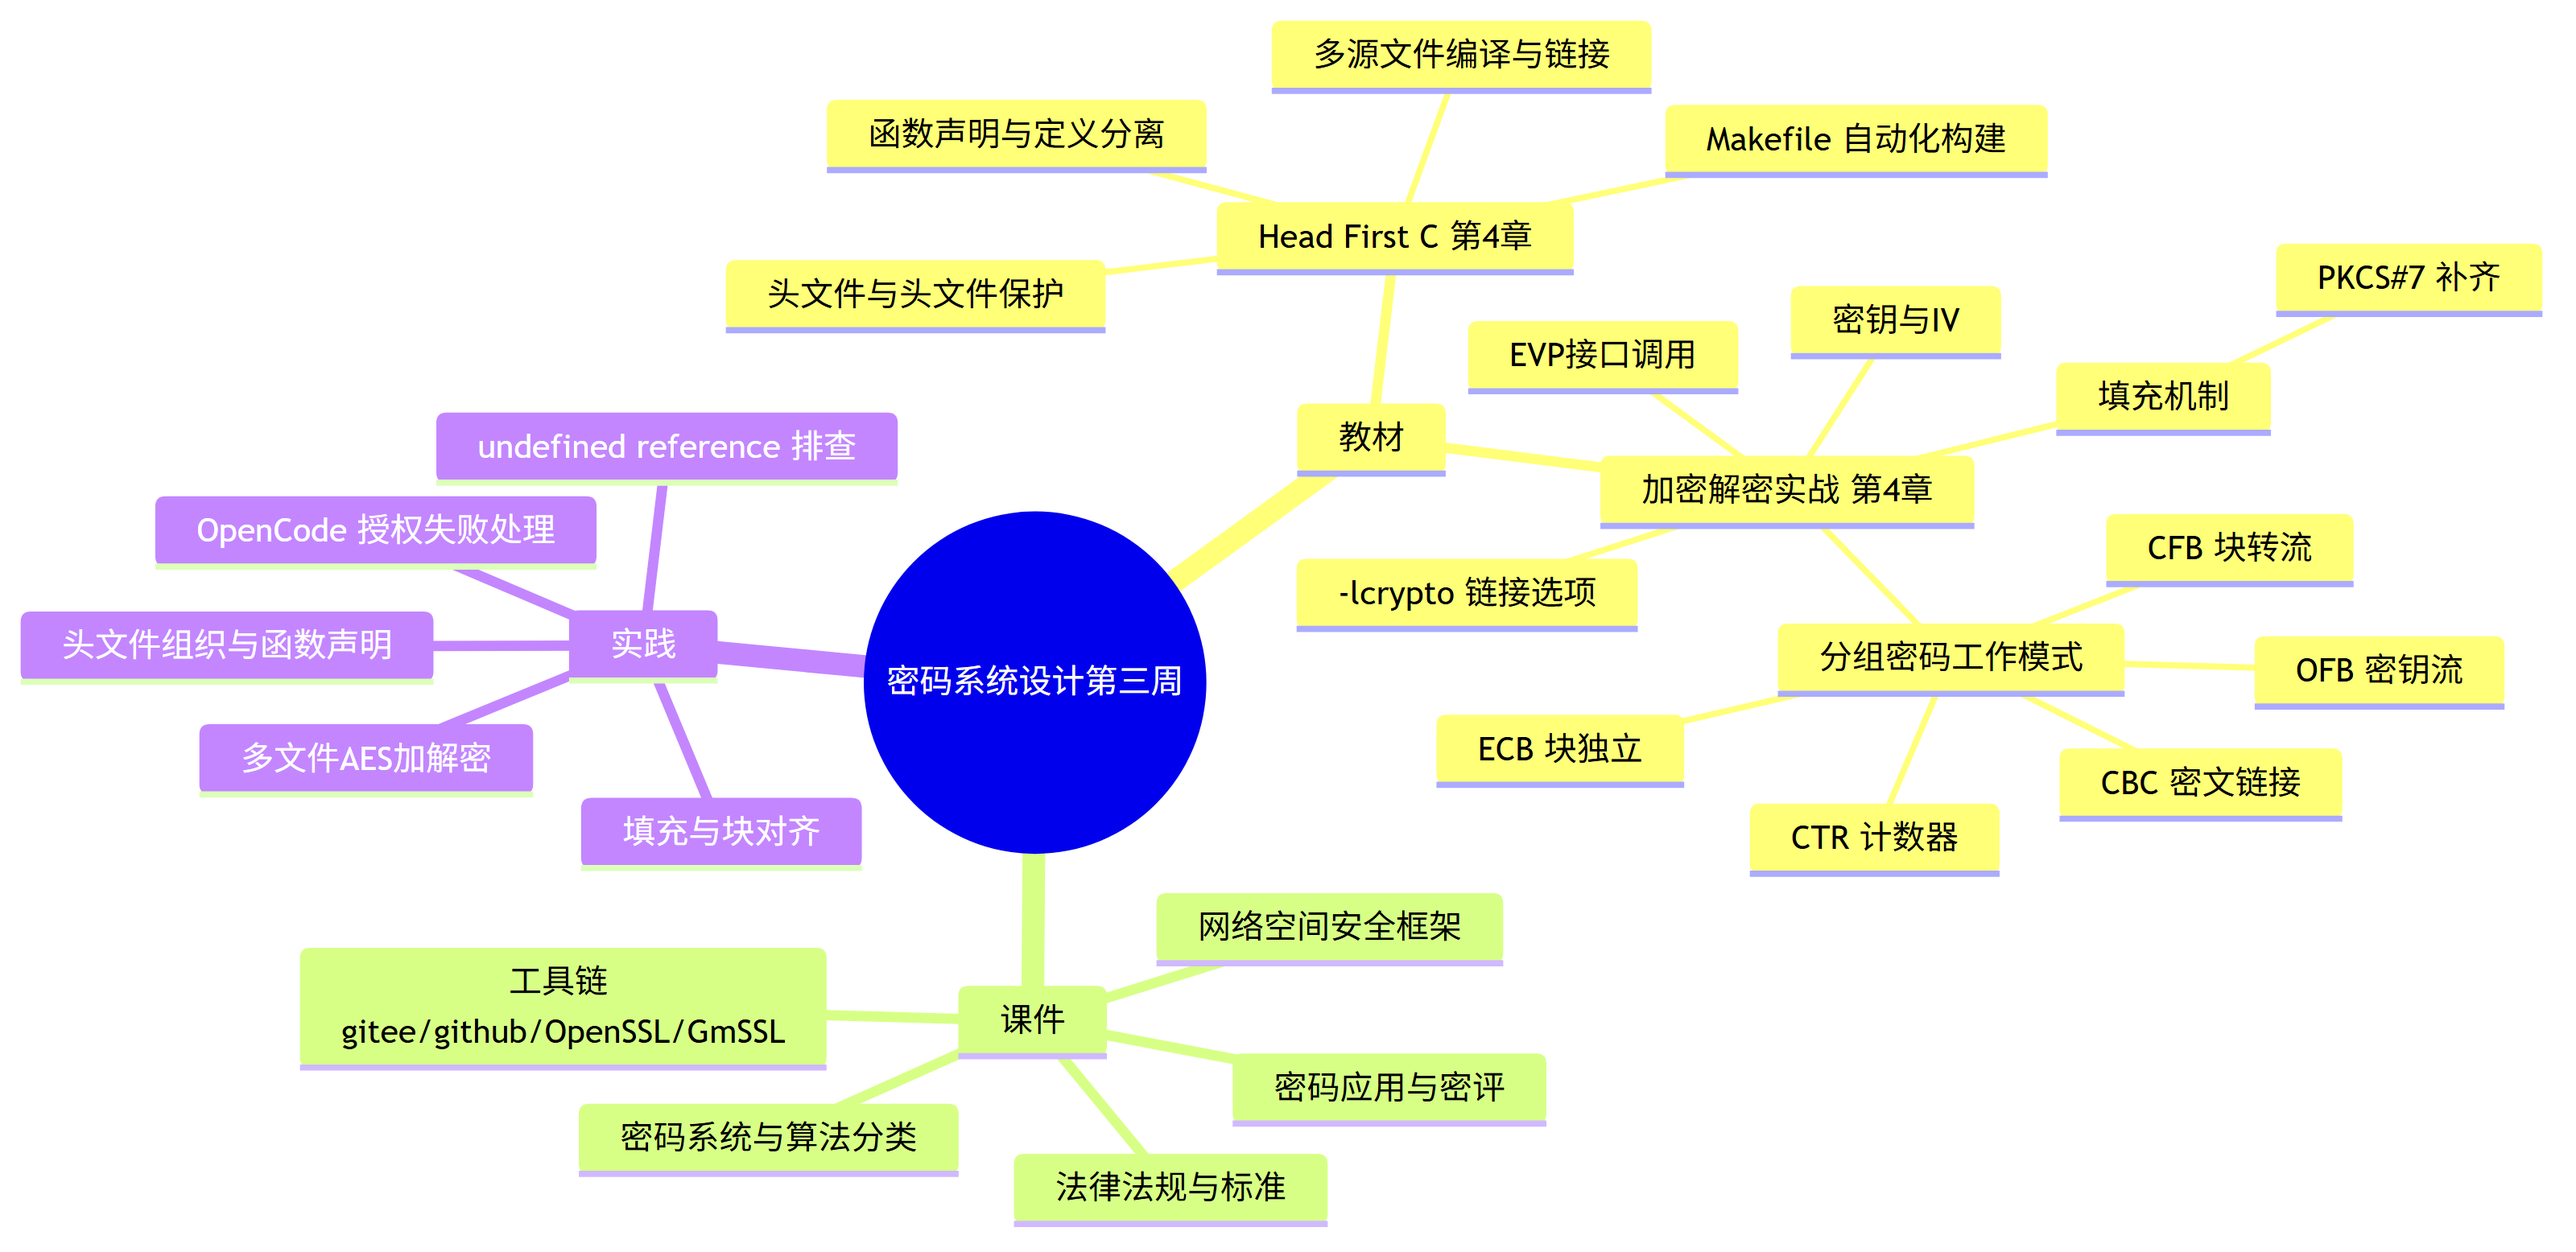
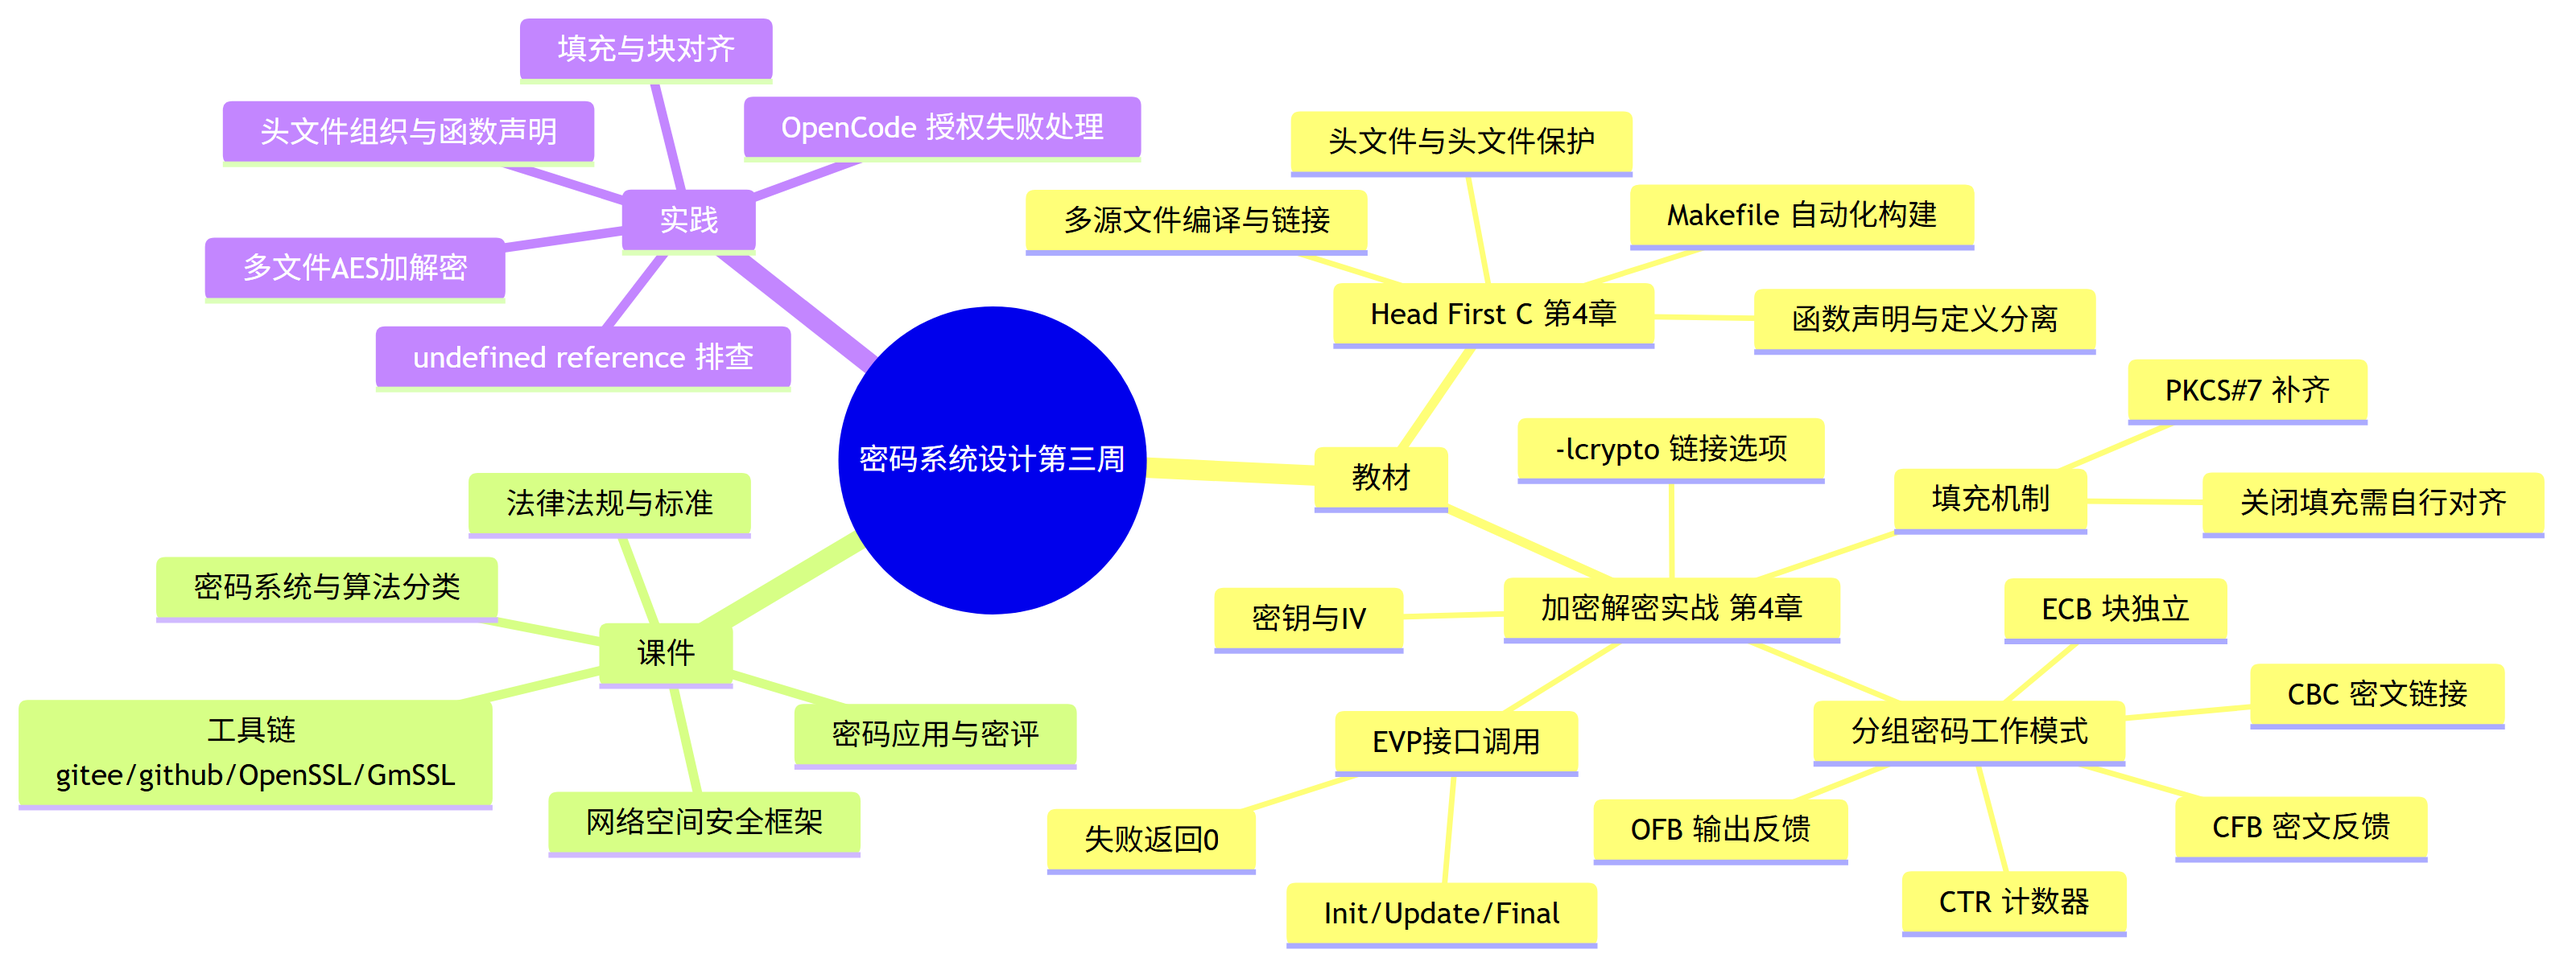
[phase3] v2 首次实跑：产出第三周报告草稿并通过 7 项检查点验证
- 按 v2 的六阶段流程实跑 input/week03.md，产出 output/v2/generated.md
- 新增阶段 1.5 定精度，起草前先对五种工作模式、PKCS#7 填充规则、
  三个 EVP 函数的调用时机与失败分支、IV 复用后果逐条列出必须回答的问题
- 阶段 1 补查 RETURN VALUES 段，拿到三个 EVP 函数返回 1 成功 0 失败的依据，
  以及关闭填充后总长非整块时 EVP_EncryptFinal_ex 返回错误的原文
- 依据 NIST SP 800-38A 核实五种工作模式机制与 CBC 的 IV 不可预测要求
- 对照 feedback/v1-to-v2.md 第五节 7 个检查点逐项验证，7 项全部通过，
  v1 需人工修改的 7 处本轮一次写对
- 参考资料删去本轮未真实访问的 openssl-library.org，遵守不许凑数的规则
- 导出 generated.pdf 与思维导图 assets/generated-mermaid-1.png

diff --git a/output/v2/generated.md b/output/v2/generated.md
@@ -1,0 +1,137 @@
+# 密码系统设计
+
+## 第三周预习报告
+
+### 学习内容
+
+- [Head First C 嗨翻 C 语言](https://www.ituring.com.cn/book/1004) 第4章
+  - 第四章重点：多源文件的编译与链接、头文件与头文件保护、函数声明与定义分离、Makefile 自动化构建
+- [《Windows C/C++加密解密实战》](https://weread.qq.com/web/bookDetail/a0332190813ab78fag011422?wfrom=bookDetailH5)第4章
+  - 第四章重点：4.2，4.3，4.5（分组密码工作模式、填充机制、OpenSSL EVP 接口调用）
+- [课程 mindmap](https://www.processon.com/mindmap/66bcf83cce68f62ecf3f63fc?from=pwa)
+
+---
+
+### AI 对学习内容的总结（1分）
+
+#### 要求
+
+让 AI（Kimi，元宝等）阅读学习内容并进行总结。
+
+#### 总结
+
+> **1. C 语言多文件工程（《Head First C》第4章）：** 本章讲解了如何把一个程序拆成多个源文件分别编译，再由链接器合并成可执行文件。核心是头文件的使用：用头文件保护宏（`#ifndef`/`#define`/`#endif`）避免重复包含，用函数声明与定义分离的方式，让调用方只看到接口而不必关心实现细节。章末的 Makefile 则把编译、链接、清理这些命令固化下来，实现一键构建与模块化管理。
+>
+> **2. 分组密码工作模式（《Windows C/C++加密解密实战》4.2）：** NIST SP 800-38A 定义了五种工作模式，差别在于明文块与密钥、IV 之间怎么组合。ECB（电子密码本）把每个块独立加密，相同明文块产生相同密文块，块与块之间没有任何联系；CBC（密码块链接）用前一块密文与当前明文异或，按 `C1 = CIPHK(P1 ⊕ IV)`、`Cj = CIPHK(Pj ⊕ Cj-1)` 形成密文链，让相同明文在不同位置产生不同密文；CFB（密文反馈）与 OFB（输出反馈）都把块密码转化为流密码使用，区别是 CFB 反馈上一段密文、OFB 反馈上一段输出，二者都不要求明文按块对齐；CTR（计数器模式）用计数器生成密钥流，密文是明文与计数器密钥流的异或，因此可以任意位置读写、可并行处理。⚠待核实：教材是否给出了这五种模式各自的选型指引，本节摘要未涵盖。
+>
+> **3. 填充机制（同上 4.3）：** 分组密码要求明文长度为块大小的整数倍，EVP 默认开启 PKCS#7 填充，规则是需补 b 个字节（1 ≤ b ≤ 块大小）时追加 b 个值为 b 的字节；AES 块大小为 16 字节，所以 7 字节明文要补 9 个值为 9 的字节，若明文本已是块大小整数倍则额外追加一整块 16 字节的填充。
+>
+> **4. OpenSSL 的 EVP 接口调用（同上 4.5）：** 加密要按顺序调用三个函数。`EVP_EncryptInit_ex(ctx, type, impl, key, iv)` 最先调用，作用是绑定算法、写入密钥和 IV，其中 `impl` 参数必须传 NULL；此后如果要改填充策略，调用 `EVP_CIPHER_CTX_set_padding(ctx, 0)` 关闭填充，它必须在 Init 之后调用且恒返回 1。`EVP_EncryptUpdate(ctx, out, &outl, in, inl)` 处理实际数据，可以多次调用做增量加密，输出缓冲区要按 `inl + cipher_block_size - 1` 开（多出的 `block_size - 1` 是为末块预留），且对旧版密码要求 `inl` 是块大小的整数倍。`EVP_EncryptFinal_ex(ctx, out, &outl)` 收尾：开启填充时在这里执行 PKCS#7 填充并输出最后一块；关闭填充时它不再加密尾部不足一整块的数据，并且**当总长度不是块大小整数倍时直接返回错误**，所以关填充后必须自己保证明文长度已对齐。这三个函数都返回 1 表示成功、0 表示失败，返回值必须检查。编译时 `EVP_EncryptInit_ex` 属于 `libcrypto` 而不属于 `libssl`，要链接 `-lcrypto`，且链接选项必须放在目标文件之后。
+
+---
+
+### 对 AI 总结的反思与补充（2分）
+
+#### 要求
+
+- AI总结的问题
+- 自己的补充
+
+#### 反思与补充
+
+- **AI 总结的不足**：AI 总结把工作模式、填充机制、EVP 接口都停在了「流程是什么」，没有说明每种模式各自防的是什么攻击，也没有把《Head First C》第 4 章的链接原理和 `-lcrypto` 的报错联系起来，两部分内容在它眼里是互不相干的。
+- **我的补充**：
+  - CBC 模式的安全性依赖 IV 每次随机且不可预测——NIST SP 800-38A 的原话是 IV 不必保密但必须不可预测。如果 Key 和 IV 的组合在两次加密中重复，会泄露明文第一块的信息，以及两条消息之间任何相同前缀的信息；攻击者可以判断两条消息是否具有相同开头，在选择明文条件下还能做猜测攻击。IV 复用泄露的是**第一块与公共前缀**，不是所有块的相等关系。
+  - CTR、OFB 只要求 IV 唯一、而不像 CBC 那样额外要求 IV 保密；但 CTR 的 IV 复用后果比 CBC 更严重：CBC 复用只是泄露相等关系，CTR 复用会让两次加密用**同一段密钥流**，密文异或即明文异或，攻击者不需要知道密钥就能直接还原两条明文的差异。
+  - `-lcrypto` 那个 `undefined reference to 'EVP_EncryptInit_ex'` 报错，其实正是《Head First C》第 4 章讲的链接问题：函数只有声明、本地对象文件里没有实现，符号要由外部库提供，而这个符号属于 `libcrypto` 而不属于 `libssl`，漏写链接选项就找不到。教材把「C 语言链接原理」和「OpenSSL 库调用」分开讲，但真写多文件 AES 程序时这两块是撞在一起的。
+
+---
+
+### 学习实践过程遇到的问题与解决方式（AI 驱动，优先使用 AI 工具解决问题）（2分）
+
+#### 问题 1：多文件 AES 程序链接 `EVP_EncryptInit_ex` 失败，且明文长度不是整块时输出异常
+
+- **出现环境**：Windows 10 + MinGW (GCC) + OpenSSL 3.x。
+- **解决过程**：
+  1. 把 AES 加解密拆成 `aes.h`、`aes.c`、`main.c` 三个文件，用 `gcc -c` 分别编译都能通过，但链接成 exe 时报 `undefined reference to 'EVP_EncryptInit_ex'`。
+  2. 意识到符号不在本地对象文件里、需要外部库提供，补上 `-lcrypto` 链接选项后通过。
+  3. 换 7 字节明文测试时又发现输出长度不对，查资料后发现 `EVP_CIPHER_CTX_set_padding()` 默认是开启的 PKCS#7 填充，会补 n 个值为 n 的字节凑成块大小整数倍。
+  4. 调用 `EVP_CIPHER_CTX_set_padding(ctx, 0)` 关闭填充后发现：如果数据长度不是块大小的整数倍，`EVP_EncryptFinal_ex()` 将不会加密剩余数据，**并返回错误**。也就是说，关闭填充后必须自行保证明文长度对齐。
+- **经验总结**：多源文件工程里编译通过不代表链接能过，符号到底来自哪个库要在写 Makefile 时就明确；而 EVP 的填充开关会改变 `EVP_EncryptFinal_ex` 的行为契约，关填充之前必须先确认明文长度。
+
+#### 问题 2：OpenCode 执行依赖安装命令时授权失败，脚本无法运行
+
+- **出现环境**：Windows 10 + OpenCode CLI。
+- **解决过程**：
+  1. 计划用 OpenCode 智能体自动完成环境安装与导出脚本，但执行到需要授权的命令时中断，提示 `Device approval failed`，后续依赖脚本也被拦截。
+  2. 排查发现不是命令本身有问题，而是 OpenCode 的设备授权流程没有走通。
+  3. 重新走了一遍设备码/浏览器授权登录流程，授权状态恢复正常。
+  4. 授权恢复后再执行同样的依赖安装与脚本命令，正常通过。
+- **经验总结**：授权类报错要区分是配置问题还是能力边界。设备授权必须在终端与网页之间交互确认，这一步 AI 智能体无法直接完成，所以把 AI 用在方案设计、报错分析和代码编写上更可靠，直接让它代办系统级操作收益有限。
+
+---
+
+## 参考资料
+
+### AI 工具（你使用的 AI 工具及其链接）
+
+- [OpenCode](https://opencode.ai)
+- [Deepseek](https://chat.deepseek.com/)
+
+### 图书
+
+- [《Windows C/C++加密解密实战》](https://weread.qq.com/web/bookDetail/a0332190813ab78fag011422?wfrom=bookDetailH5)
+- [Head First C 嗨翻 C 语言](https://www.ituring.com.cn/book/1004)
+
+### 网站
+
+- [EVP_EncryptInit 官方手册](https://docs.openssl.org/3.0/man3/EVP_EncryptInit)
+- [NIST SP 800-38A 分组密码工作模式规范](https://csrc.nist.gov/pubs/sp/800/38/a/final)
+
+---
+
+### 学习思维导图（2分）
+
+#### 要求
+
+Mermaid 代码与截图，或提交思维导图链接。
+
+#### 思维导图
+
+```mermaid
+mindmap
+  root((密码系统设计第三周))
+    教材
+        Head First C 第4章
+            多源文件编译与链接
+            头文件与头文件保护
+            函数声明与定义分离
+            Makefile 自动化构建
+        加密解密实战 第4章
+            分组密码工作模式
+                ECB 块独立
+                CBC 密文链接
+                CFB 密文反馈
+                OFB 输出反馈
+                CTR 计数器
+            填充机制
+                PKCS#7 补齐
+                关闭填充需自行对齐
+            密钥与IV
+            EVP接口调用
+                Init/Update/Final
+                失败返回0
+            -lcrypto 链接选项
+    课件
+        网络空间安全框架
+        密码系统与算法分类
+        法律法规与标准
+        密码应用与密评
+        工具链 gitee/github/OpenSSL/GmSSL
+    实践
+        多文件AES加解密
+        头文件组织与函数声明
+        undefined reference 排查
+        填充与块对齐
+        OpenCode 授权失败处理
+```
